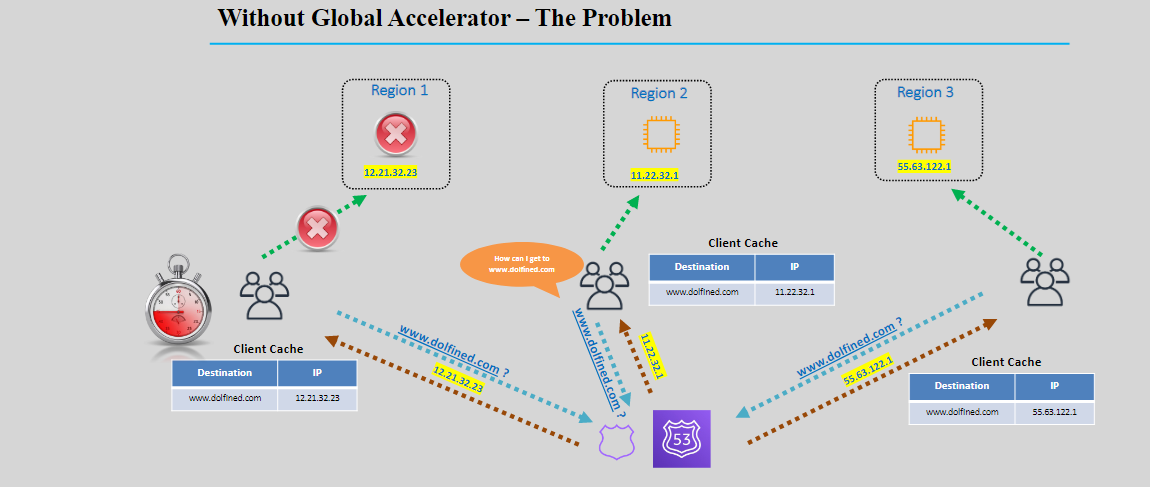
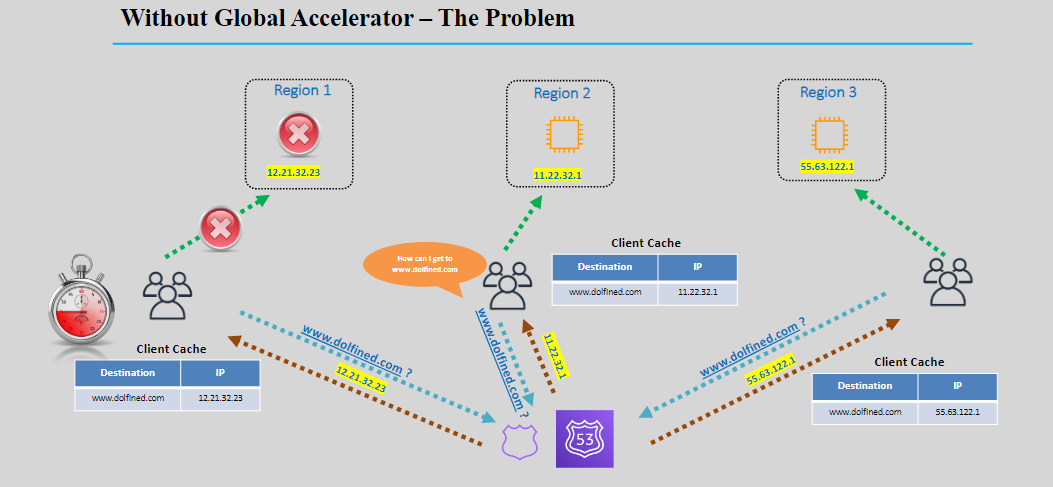
global-acc

diff --git a/aws-services/3.network/global-accelerator/1.1.global-accelerator-simplify.md b/aws-services/3.network/global-accelerator/1.1.global-accelerator-simplify.md
@@ -1,0 +1,189 @@
+# 🌍 **AWS Global Accelerator – Lightning-Fast Global Access for Any App**
+
+> _Speed up your global app by routing traffic through AWS’s private network instead of the slow public internet._
+
+---
+
+<div style="text-align: center;">
+    <img src="images/anycast-ip.png" alt="Anycast IP" style="border-radius: 20px; width: 60%;">
+</div>
+
+---
+
+## 🚀 What Is AWS Global Accelerator?
+
+**AWS Global Accelerator** is a **network traffic accelerator** that uses AWS’s **global infrastructure** to improve **latency, availability, and failover** for your apps — regardless of where users are on the planet.
+
+✅ You get **2 static Anycast IPs** that direct traffic to the **closest healthy AWS region** running your application.
+
+---
+
+## 🧠 Why Global Accelerator?
+
+<div style="text-align: center;">
+    <img src="images/why-global-accelerator.png" alt="why-global-accelerator" style="border-radius: 10px; width: 60%;">
+</div>
+
+---
+
+Without it:
+
+- Global users connect over the **public internet**
+- Many **slow, unpredictable hops**
+- Higher **latency and failure risk**
+
+With it:
+
+- Users connect to the **nearest AWS edge location**
+- Routed through the **AWS global backbone**
+- **Fewer hops**, faster response, and built-in **failover**
+
+---
+
+## 🆚 Anycast vs. Unicast IPs
+
+<div align="center">
+  <img src="images/unicast-ips.png" alt="Unicast IPs" style="width: 60%; border-radius: 10px;">
+</div>
+
+---
+
+<div align="center">
+  <img src="images/anycast-ips.png" alt="Anycast IPs" style="width: 60%; border-radius: 10px;">
+</div>
+
+---
+
+## 🧱 Core Components
+
+### 1⃣ **Anycast IPs**
+
+- You get **2 static IPs** (IPv4) or 4 for dual-stack (IPv4+IPv6)
+- Clients connect via these fixed IPs (can whitelist them!)
+- **No DNS caching issues**, since IPs never change
+
+### 2⃣ **AWS Edge Locations**
+
+- Over 100 edge locations worldwide
+- Serve as **entry points to the AWS network**
+- Traffic is routed from edge to app **inside AWS**
+
+### 3⃣ **Global Health Checks**
+
+- Global Accelerator checks each endpoint's health
+- If a region fails, traffic is **instantly rerouted (< 60 sec)**
+
+---
+
+## 🛠 Supported Origin Types
+
+Global Accelerator supports both **public** and **private** resources:
+
+| ✅ Resource Type     | Examples                       |
+| -------------------- | ------------------------------ |
+| **ALB / NLB**        | For web apps or load balancers |
+| **EC2 Instance**     | Direct compute instance access |
+| **Elastic IP (EIP)** | IP-attached workloads          |
+
+---
+
+## 🔄 How It Works (Flow)
+
+<div align="center">
+
+```mermaid
+sequenceDiagram
+    participant User as 🌎 Global User
+    participant GA as 🌐 Global Accelerator (Static IP)
+    participant Edge as 🛰 AWS Edge Location
+    participant App as 🖥 ALB or EC2 in Region
+
+    User->>GA: Access App via Static IP
+    GA->>Edge: Route to nearest Edge
+    Edge->>App: Forward to healthy endpoint
+    App-->>User: Respond via AWS Network
+```
+
+</div>
+
+---
+
+## 🎯 Real Benefits
+
+| 🔍 Feature                  | ✅ Value                                                 |
+| --------------------------- | -------------------------------------------------------- |
+| 🧭 **Intelligent Routing**  | Routes to lowest latency & healthy region                |
+| 🌍 **Static IPs**           | Easy whitelisting in firewalls, partners, security tools |
+| ⚡ **Faster Global Access** | Uses **AWS private backbone**, not internet              |
+| 💥 **DDoS Protection**      | Built-in via AWS Shield Standard                         |
+| 🛠 **Failover Recovery**     | Switches to healthy region in **< 1 minute**             |
+| 🎮 **UDP + TCP Support**    | Unlike CloudFront, supports gaming, VoIP, DNS            |
+| 🔐 **Client IP Preserved**  | Great for logging, firewalls, and Geo-IP decisions       |
+
+---
+
+## 🌐 Use Cases
+
+| Use Case                      | Why Global Accelerator Works Best       |
+| ----------------------------- | --------------------------------------- |
+| 💳 IP Whitelisting for APIs   | Only 2 fixed IPs need to be allowed     |
+| 🗺 Multi-region deployments   | Auto-failover and geo-optimized routing |
+| 🎮 UDP traffic apps           | Works with UDP unlike CloudFront        |
+| 🎥 Live video ingest          | Low latency video streaming support     |
+| 🛡 Security-compliant systems | Static IPs + DDoS + health failover     |
+
+---
+
+## ⚔ Global Accelerator vs CloudFront
+
+| Feature                | **Global Accelerator**        | **Amazon CloudFront**             |
+| ---------------------- | ----------------------------- | --------------------------------- |
+| **Type**               | Network layer accelerator     | CDN for content delivery          |
+| **Traffic Type**       | TCP + UDP                     | HTTP/HTTPS only                   |
+| **Caching**            | ❌ No                         | ✅ Yes                            |
+| **Fixed IPs**          | ✅ Static Anycast IPs         | ❌ DNS-based dynamic IPs          |
+| **Preserve Client IP** | ✅ Yes                        | ❌ (unless forwarded via headers) |
+| **Use Case**           | Gaming, APIs, region failover | Websites, images, streaming       |
+
+---
+
+## 🛠 Quick Setup (Console)
+
+1. **Open AWS Global Accelerator Console**
+2. Click **Create Accelerator**
+3. Define:
+
+   - Accelerator name
+   - IPv4 / dual-stack
+   - Listener port + protocol (TCP/UDP)
+
+4. Create **endpoint group** (region)
+5. Add **endpoint** (ALB, EC2, etc.)
+6. Enable **health checks**
+7. Done! 🎉 Two static IPs are generated.
+
+---
+
+## 💡 Tips for the Exam
+
+| 🔥 Concept                   | 📌 Note                                           |
+| ---------------------------- | ------------------------------------------------- |
+| Anycast IPs                  | Global IPs routed to nearest edge                 |
+| BYOIP                        | You can bring your own static IP                  |
+| Health Checks                | Enabled by default for regional failover          |
+| Works with private resources | ✅ ALB/EC2 in **private subnet** (not exposed)    |
+| vs CloudFront                | CloudFront = CDN; GA = full network accelerator   |
+| Use with UDP                 | Yes (CloudFront only supports HTTP/HTTPS)         |
+| Static IP whitelisting       | Simplifies access from external firewalls/devices |
+
+---
+
+## ✅ Summary
+
+| 🔍 Topic             | ✅ Summary                                       |
+| -------------------- | ------------------------------------------------ |
+| Static IPs (Anycast) | Always the same, route to closest edge           |
+| Intelligent Routing  | Based on latency + health                        |
+| Private App Access   | Serve even from private ALB/EC2/NLB              |
+| Failover Support     | Under 1 min reroute to healthy region            |
+| Best Use Cases       | Gaming, real-time apps, API access, multi-region |

diff --git a/aws-services/3.network/global-accelerator/1.2.global-accelerator.md b/aws-services/3.network/global-accelerator/1.2.global-accelerator.md
@@ -23,7 +23,7 @@ AWS Global Accelerator is a networking service designed to optimize the availabi
 #### 📊 **How Anycast IPs Work:**
 
 <div style="text-align: center;">
-    <img src="images/anycast-ip.png" alt="Anycast IP" style="border-radius: 10px;">
+    <img src="images/anycast-ip.png" alt="Anycast IP" style="border-radius: 20px; width: 60%;">
 </div>
 
 1. **Multiple Advertisements:** The same Anycast IP address is advertised from multiple AWS edge locations.
@@ -33,7 +33,7 @@ AWS Global Accelerator is a networking service designed to optimize the availabi
 #### 🌍 **Anycast IPs in AWS:**
 
 <div style="text-align: center;">
-    <img src="images/anycast-ip-in-aws.png" alt="Anycast IP in AWS" style="border-radius: 10px;">
+    <img src="images/anycast-ip-in-aws.png" alt="Anycast IP in AWS" style="border-radius: 20px; width: 60%;">
 </div>
 
 - **Allocation:** Each Global Accelerator instance is assigned two static Anycast IPs for IPv4 or four for dual-stack (IPv4 and IPv6).
@@ -52,13 +52,13 @@ AWS Global Accelerator enhances application performance and availability through
 ### 📊 **Traffic Flow Diagram:**
 
 <div style="text-align: center;">
-    <img src="images/without-global-accelerator.png" alt="Without Global Accelerator" style="border-radius: 10px;">
+    <img src="images/without-global-accelerator.png" alt="Without Global Accelerator" style="border-radius: 20px; width: 60%;">
 </div>
 
 ---
 
 <div style="text-align: center;">
-    <img src="images/global-accelerator.gif" alt="With Global Accelerator" style="border-radius: 10px;">
+    <img src="images/global-accelerator.gif" alt="With Global Accelerator" style="border-radius: 20px; width: 60%;">
 </div>
 
 ## 🚀 **Benefits of AWS Global Accelerator**
